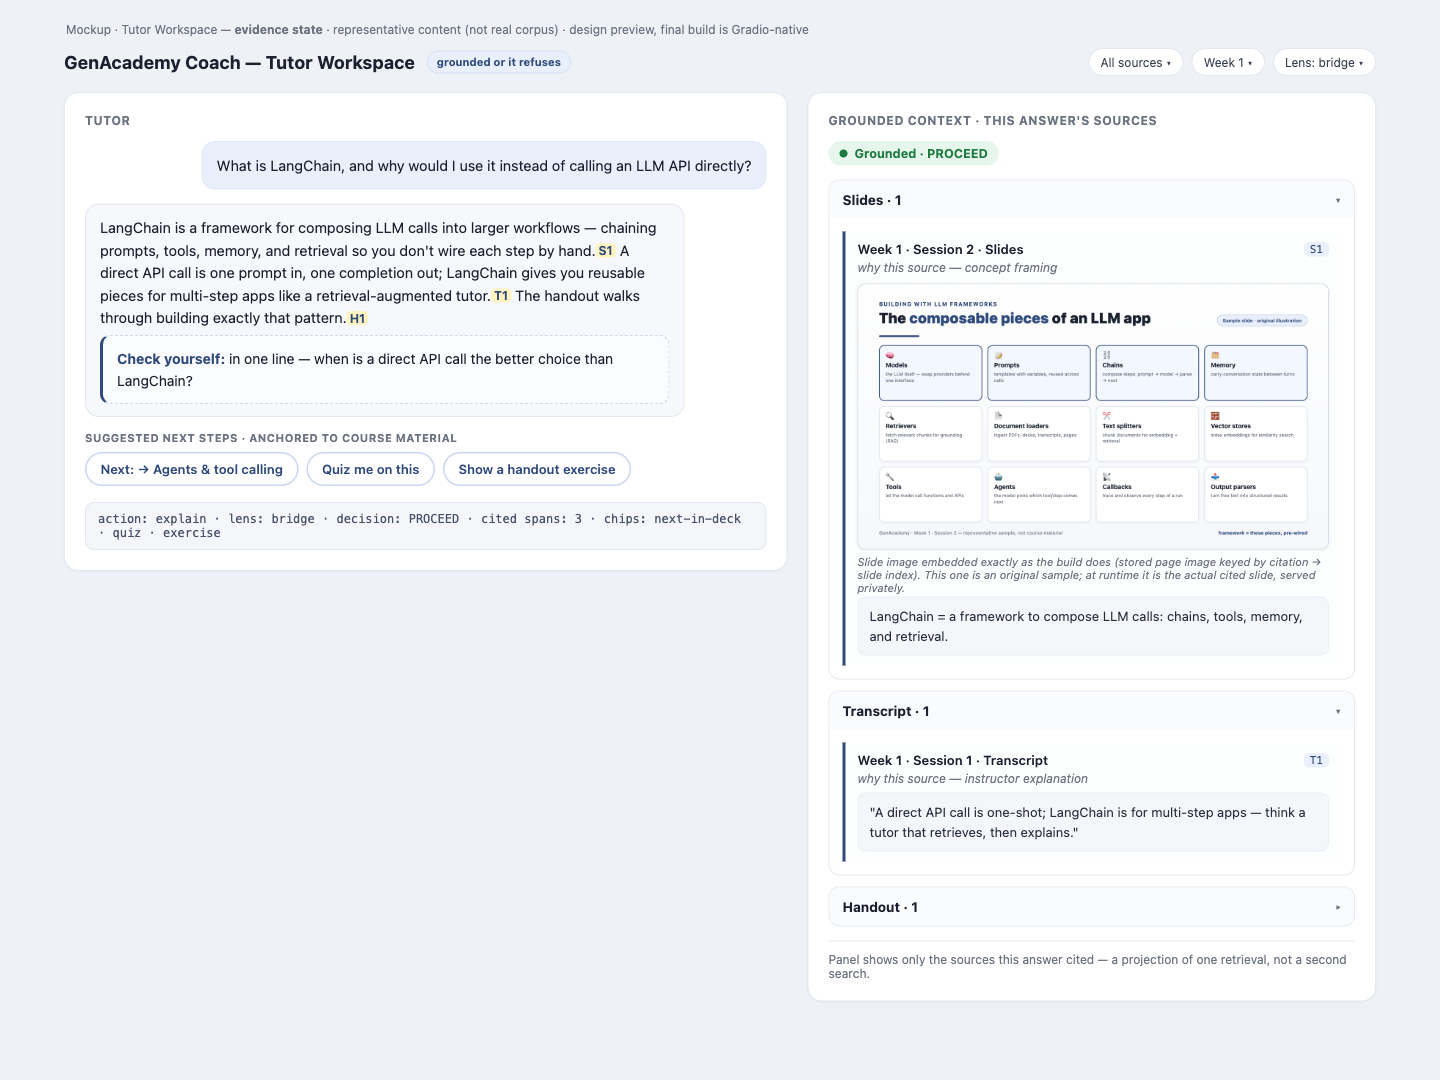
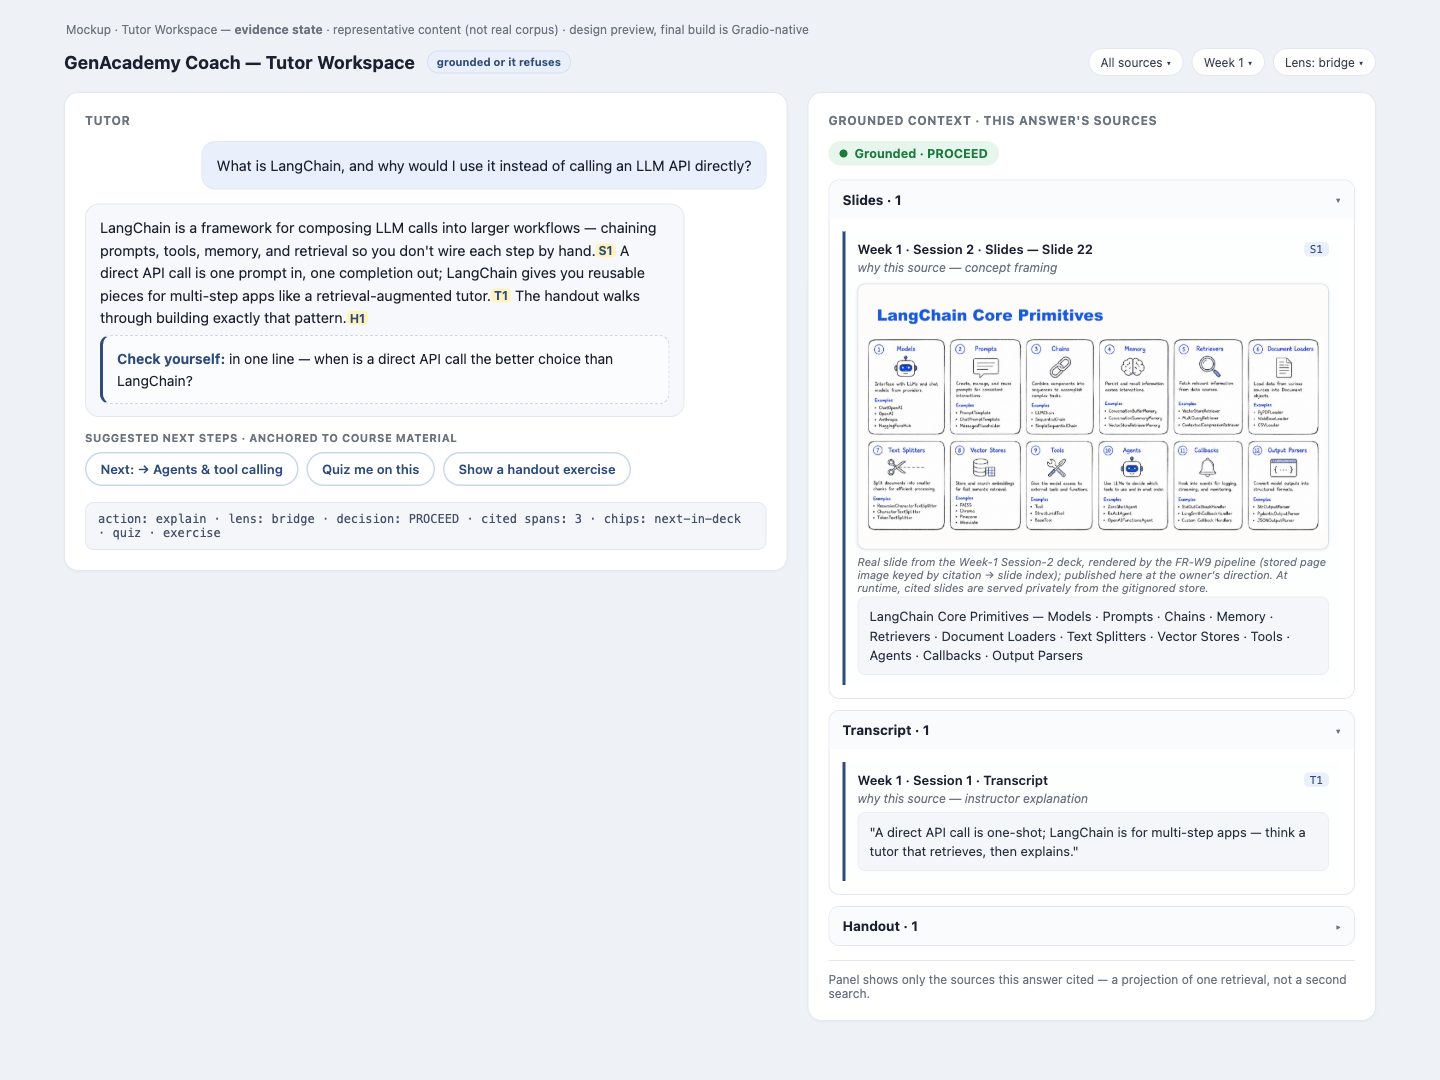
docs: feature a real course slide in the mockup (owner-directed exception)
At the owner's direction, publish one inspected, benign demo slide (Week 1 -
Session 2 - slide 22, a framework-primitives overview; no personal data or
internal systems) as the mockup slide card's featured asset:

- real-slide-week1-s2-slide22.png added; evidence mockup embeds it, with the
  source label, extracted span, and caption updated to match the real slide
- FR-W9 in the PRD + spec section 5.1 amended to record the exception; the
  runtime slide-image store stays gitignored
- session context log records the decision and its scope (single inspected
  slide only; remaining deck renders stay private/uninspected)

Leak gate green; privacy grep clean.

diff --git a/docs/assets/mockups/tutor-workspace-evidence.html b/docs/assets/mockups/tutor-workspace-evidence.html
@@ -126,13 +126,13 @@
         <div class="lane-head">Slides · 1 <span class="arw">▾</span></div>
         <div class="lane-body">
           <div class="srccard">
-            <div class="srcrow"><span class="srclabel">Week 1 · Session 2 · Slides</span><span class="cid">S1</span></div>
+            <div class="srcrow"><span class="srclabel">Week 1 · Session 2 · Slides — Slide 22</span><span class="cid">S1</span></div>
             <div class="why">why this source — concept framing</div>
             <div class="slidefig">
-              <img class="slideimg" src="sample-slide-infographic.png" alt="Slide 12 — the composable pieces of an LLM app (sample slide, original illustration)">
-              <div class="figcap">Slide image embedded exactly as the build does (stored page image keyed by citation → slide index). This one is an original sample; at runtime it is the actual cited slide, served privately.</div>
+              <img class="slideimg" src="real-slide-week1-s2-slide22.png" alt="Week 1 · Session 2 · Slide 22 — LangChain Core Primitives (real slide from the course deck)">
+              <div class="figcap">Real slide from the Week-1 Session-2 deck, rendered by the FR-W9 pipeline (stored page image keyed by citation → slide index); published here at the owner's direction. At runtime, cited slides are served privately from the gitignored store.</div>
             </div>
-            <div class="span">LangChain = a framework to compose LLM calls: chains, tools, memory, and retrieval.</div>
+            <div class="span">LangChain Core Primitives — Models · Prompts · Chains · Memory · Retrievers · Document Loaders · Text Splitters · Vector Stores · Tools · Agents · Callbacks · Output Parsers</div>
           </div>
         </div>
       </div>

diff --git a/docs/coach-v2-workspace-session-context.md b/docs/coach-v2-workspace-session-context.md
@@ -38,7 +38,12 @@ second-model reviewer) can pick up without re-deriving the reasoning.
 9. **Trace-line explainer.** The strip `action · lens · decision · cited spans` documented as the UI
    expression of the spine: action + lens are the agent's (logged) choices; decision band + cited
    spans are the system's deterministic measurements.
-10. **FR-W10 next-step suggestion chips.** Owner requested intelligent "what next" suggestions
+10a. **Real demo slide published (owner's direction, 2026-07-04).** The mockup's slide card first used
+    an original synthetic infographic; the owner directed embedding a real slide. One inspected, benign
+    slide (Week 1 · Session 2 · slide 22 — a framework-primitives overview; no personal data or internal
+    systems) is published in `docs/assets/mockups/` as the featured asset. The remaining deck renders
+    stay private (uninspected third-party content). FR-W9 wording amended to record the exception.
+11. **FR-W10 next-step suggestion chips.** Owner requested intelligent "what next" suggestions
     (pattern: post-turn suggestion chips). Brainstormed; **Approach A approved** — deterministic,
     anchor-validated chips in Phase 1 (teach-state + corpus adjacency + near-miss retrievals + session
     memory), agentic curation in Phase C. Hard rule: never suggest what you can't ground; chips are

diff --git a/docs/coach-product-requirements.md b/docs/coach-product-requirements.md
@@ -73,7 +73,9 @@ the local Gradio app are shipped. Role-keyed provenance (`role → span_id`) exi
 - **FR-W9** Slide-visual card: when a cited span comes from a slide deck, the panel shows the **stored
   page image of that exact slide** (rendered from the deck at build time — real asset, never generated),
   keyed citation → deck + slide index. Slide images live in a private, gitignored store and are served
-  at runtime only; they are never committed — the repo is public.
+  at runtime only; they are never committed — the repo is public. *Recorded exception (2026-07-04,
+  owner's direction): one inspected, benign demo slide (Week 1 · Session 2 · slide 22) is published in
+  `docs/assets/mockups/` as the mockup's featured asset; the runtime store remains gitignored.*
 - **FR-W10** Next-step suggestion chips: after each tutor turn, 2–4 clickable suggestions (continue /
   comprehension / practice slots; a recovery set on refusal). **Every chip carries a grounding anchor**
   (span id, deck/section adjacency, or bounded teaching action) validated at creation — no anchor, no

diff --git a/docs/superpowers/specs/2026-06-30-tutor-workspace-and-target-architecture-design.md b/docs/superpowers/specs/2026-06-30-tutor-workspace-and-target-architecture-design.md
@@ -74,6 +74,8 @@ the stored page image of the exact cited slide (rendered from the deck via headl
 time; real asset, never generated). Citation → slide-index resolution happens deck-side — the pptx
 loader already emits per-slide structure — so the **current index is untouched**. Slide images live in
 a gitignored store and are served at runtime only; the repo is public, so they are never committed.
+(Recorded exception, 2026-07-04: one inspected demo slide is published in the mockups at the owner's
+direction; the runtime store stays gitignored.)
 Includes (confirmed 2026-07-03): **deterministic next-step suggestion chips** (PRD FR-W10) — 2–4
 anchor-validated chips per turn (continue / comprehension / practice; recovery set on refusal), built
 from teach-loop state, corpus adjacency, near-miss retrievals, and session-memory dedupe. No new model
